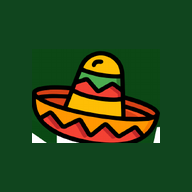
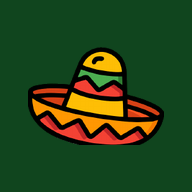
Atualiza aviso de manutencao e icones do app

Changed region(s): [[0.125, 0.2188, 0.875, 0.7812]]

diff --git a/index.html b/index.html
@@ -4,22 +4,41 @@
 <meta charset="utf-8">
 <meta name="viewport" content="width=device-width, initial-scale=1, viewport-fit=cover">
 <meta name="theme-color" content="#10451e">
+<meta name="apple-mobile-web-app-capable" content="yes">
+<meta name="apple-mobile-web-app-status-bar-style" content="black-translucent">
+<meta name="apple-mobile-web-app-title" content="Mexicana">
+<meta name="mobile-web-app-capable" content="yes">
 <meta name="description" content="Explore as categorias do cardápio da Lanchonete Mexicana.">
 <title>Cardápio | Lanchonete Mexicana</title>
 <link rel="manifest" href="./manifest.webmanifest">
 <link rel="icon" href="./icon-192.png">
-<link rel="apple-touch-icon" href="./icon-192.png">
+<link rel="apple-touch-icon" href="./apple-touch-icon.png">
 <link rel="stylesheet" href="./style.css">
 <script src="./menu.js" defer></script>
 <script src="./app.js" defer></script>
 </head>
 <body class="home-view">
+<div id="splash-screen" class="splash-screen" aria-hidden="true">
+  <div class="splash-box">
+    <img src="./logo-lanchonete-mexicana.png" alt="Lanchonete Mexicana" class="splash-logo">
+  </div>
+</div>
 <header class="top"><div class="bar">
 <a class="brand" href="#" aria-label="Lanchonete Mexicana, início do cardápio"><img src="./logo-lanchonete-mexicana.png" alt="Lanchonete Mexicana · Burritos, tacos, pastéis e sucos"></a>
 <button id="install" type="button">Instalar app <span aria-hidden="true">↓</span></button>
 </div></header>
 <main>
-<section id="home" aria-labelledby="title">
+<section id="maintenance" class="maintenance-screen">
+  <img src="./logo-lanchonete-mexicana.png" alt="Lanchonete Mexicana" class="maintenance-logo">
+  <div class="maintenance-icon" aria-hidden="true">⏳</div>
+  <h1 class="maintenance-title">Estamos em manutenção / fechados no momento</h1>
+  <p class="maintenance-subtitle">Voltamos em breve!</p>
+  <div class="maintenance-contact">
+    <a href="tel:+553535311155" class="maintenance-btn">Ligue para o Delivery: (35) 3531-1155</a>
+    <p class="maintenance-address">Parque da Lagoinha, 12 – Lagoinha<br>São Sebastião do Paraíso – MG</p>
+  </div>
+</section>
+<section id="home" aria-labelledby="title" style="display: none;">
 <div class="hero">
 <h1 id="title"><img src="./titulo-cardapio.png" alt="Cardápio Comida Mexicana" width="1080" height="399"></h1>
 </div>

diff --git a/style.css b/style.css
@@ -71,3 +71,101 @@ dialog p{line-height:1.55}
   text-decoration: underline;
   text-underline-offset: 3px;
 }
+
+/* Aviso de Manutenção / Fechado */
+.maintenance-screen {
+  text-align: center;
+  padding: 34px 20px;
+  max-width: 520px;
+  margin: 30px auto 40px;
+  background: var(--deep);
+  border: 1px solid #ffcc5d55;
+  border-radius: 16px;
+  box-shadow: 0 10px 30px #00000055;
+  animation: splashZoom 0.4s ease-out;
+}
+.maintenance-logo {
+  display: block;
+  width: min(85%, 290px);
+  height: auto;
+  margin: 0 auto 20px;
+}
+.maintenance-icon {
+  font-size: 2.8rem;
+  margin-bottom: 12px;
+}
+.maintenance-title {
+  font-size: clamp(1.35rem, 5vw, 1.8rem);
+  color: var(--gold);
+  margin: 0 0 10px;
+  line-height: 1.3;
+}
+.maintenance-subtitle {
+  font-size: 1.15rem;
+  color: var(--cream);
+  margin: 0 0 24px;
+  font-weight: 500;
+}
+.maintenance-contact {
+  border-top: 1px solid #ffcc5d33;
+  padding-top: 20px;
+}
+.maintenance-btn {
+  display: inline-block;
+  background: var(--red);
+  color: #fff;
+  padding: 12px 22px;
+  border-radius: 9px;
+  font-weight: 700;
+  text-decoration: none;
+  margin-bottom: 14px;
+  box-shadow: 0 3px #0003;
+  transition: background 0.2s;
+}
+.maintenance-btn:hover {
+  background: #bd282d;
+}
+.maintenance-address {
+  font-size: 0.92rem;
+  color: #ead5d3;
+  margin: 0;
+  line-height: 1.45;
+}
+
+.splash-screen {
+  position: fixed;
+  inset: 0;
+  z-index: 99999;
+  background-color: #10451e;
+  display: flex;
+  align-items: center;
+  justify-content: center;
+  padding: 24px;
+  opacity: 1;
+  visibility: visible;
+  transition: opacity 0.4s ease-out, visibility 0.4s ease-out;
+}
+.splash-screen.fade-out {
+  opacity: 0;
+  visibility: hidden;
+  pointer-events: none;
+}
+.splash-box {
+  width: 100%;
+  max-width: 440px;
+  display: flex;
+  justify-content: center;
+  align-items: center;
+}
+.splash-logo {
+  display: block;
+  width: min(88vw, 420px);
+  height: auto;
+  max-height: 45vh;
+  object-fit: contain;
+  animation: splashZoom 0.6s cubic-bezier(0.16, 1, 0.3, 1) forwards;
+}
+@keyframes splashZoom {
+  0% { opacity: 0; transform: scale(0.9); }
+  100% { opacity: 1; transform: scale(1); }
+}

diff --git a/sw.js b/sw.js
@@ -1,7 +1,8 @@
-const cacheName = 'mexicana-cardapio-v6';
+const cacheName = 'mexicana-cardapio-v8';
 const assets = [
   './', './index.html', './app.js', './menu.js', './style.css', './manifest.webmanifest',
-  './grafismo-verde.webp', './titulo-cardapio.png', './logo-lanchonete-mexicana.png', './icon-192.png', './icon-512.png',
+  './grafismo-verde.webp', './titulo-cardapio.png', './logo-lanchonete-mexicana.png',
+  './icon-192.png', './icon-512.png', './splash-512.png', './apple-touch-icon.png',
   './fotos/burrito.webp',
   './fotos/caldos.webp',
   './fotos/combinados.webp',
@@ -14,14 +15,17 @@ const assets = [
 ];
 
 self.addEventListener('install', (event) => {
+  self.skipWaiting();
   event.waitUntil(caches.open(cacheName).then((cache) => cache.addAll(assets)));
 });
 
 self.addEventListener('activate', (event) => {
-  event.waitUntil(caches.keys().then((keys) => Promise.all(
-    keys.filter((key) => key.startsWith('mexicana-cardapio-') && key !== cacheName)
-      .map((key) => caches.delete(key))
-  )));
+  event.waitUntil(
+    caches.keys().then((keys) => Promise.all(
+      keys.filter((key) => key.startsWith('mexicana-cardapio-') && key !== cacheName)
+        .map((key) => caches.delete(key))
+    )).then(() => self.clients.claim())
+  );
 });
 
 self.addEventListener('fetch', (event) => {

diff --git a/app.js b/app.js
@@ -105,6 +105,12 @@ function renderProducts(groups, slug) {
 }
 
 function renderCategory() {
+  const maintenance = byId('maintenance');
+  if (maintenance && !maintenance.hidden && maintenance.style.display !== 'none') {
+    byId('home').hidden = true;
+    byId('detail').hidden = true;
+    return;
+  }
   const slug = location.hash.slice(1);
   const category = categories.find(([id]) => id === slug);
   document.body.classList.toggle('home-view', !category);
@@ -156,4 +162,19 @@ installButton.addEventListener('click', async () => {
 
 if ('serviceWorker' in navigator) {
   navigator.serviceWorker.register('./sw.js').catch(console.error);
+}
+
+const splash = byId('splash-screen');
+if (splash) {
+  const hideSplash = () => {
+    splash.classList.add('fade-out');
+    setTimeout(() => { if (splash.parentNode) splash.remove(); }, 450);
+  };
+  if (document.readyState === 'complete') {
+    setTimeout(hideSplash, 650);
+  } else {
+    window.addEventListener('load', () => setTimeout(hideSplash, 650));
+    // Fallback guarantee in case load event already fired
+    setTimeout(hideSplash, 1200);
+  }
 }
